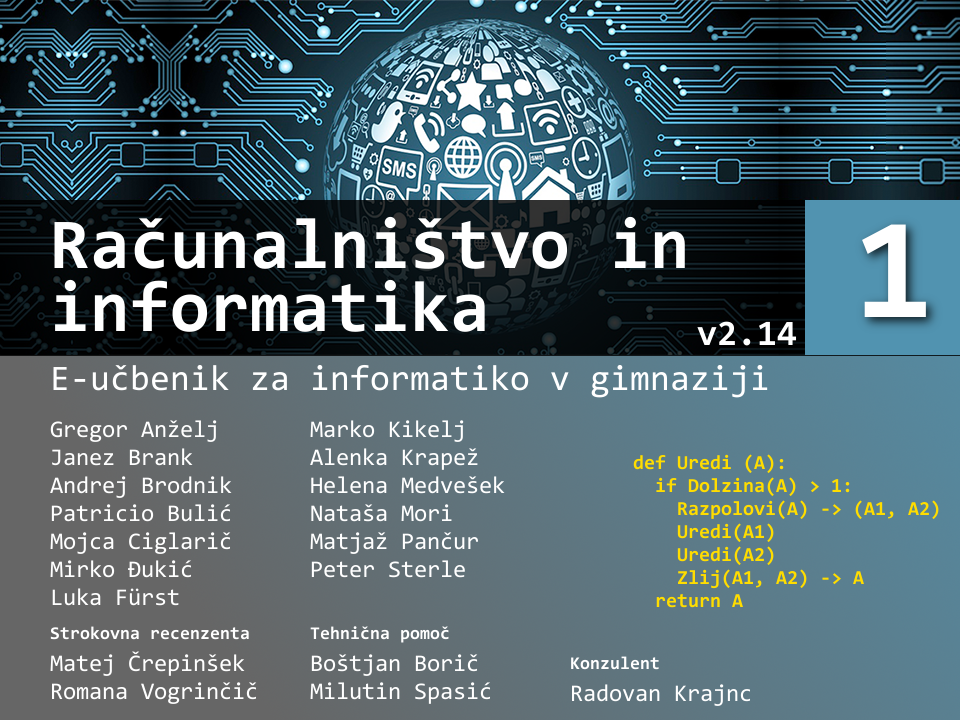
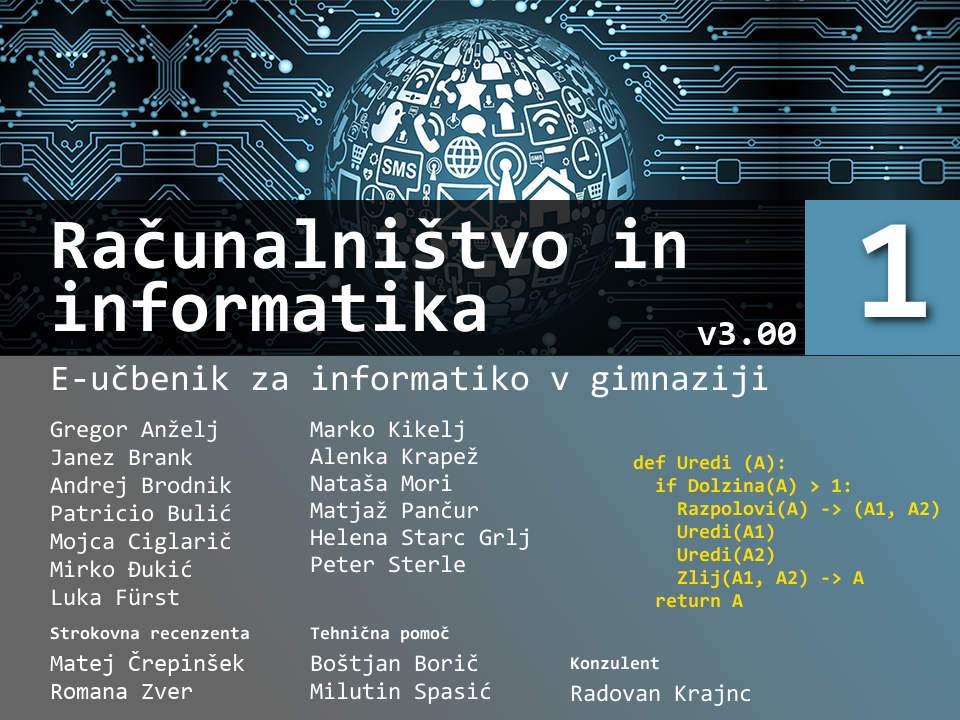
Interaktivni e-ucbenik v3.00

Changed region(s): [[0.3125, 0.6111, 0.5625, 0.825], [0.75, 0.4278, 0.8438, 0.4889], [0.125, 0.9472, 0.2812, 0.9778]]

diff --git a/book/cookies.html b/book/cookies.html
@@ -173,7 +173,7 @@
 						<h1>Piškotki</h1>
 
 						<h2>Kaj so piškotki?</h2>
-						<p align="justify">Piškotki so majhne tekstovne datoteke, ki se zapišejo na tvoj računalnik, ko obiščeš spletno stran.</p>
+						<p align="justify">Piškotki so majhne besedilne datoteke, ki se zapišejo v tvoj računalnik, ko obiščeš spletno stran.</p>
 						<p align="justify">Piškotki služijo za zagotavljanje sledljivosti in ko se naslednjič z istim brskalnikom vrneš na spletno stran, brskalnik preveri, ali je piškotek nastavljen, uporabi podatke iz piškotka in jih posreduje spletni strani.</p>
 						<p align="justify">Piškotki nam omogočajo, da prepoznamo ali si nas že predhodno obiskal(-a), in v nekaterih primerih temu lahko prilagodimo prikazano vsebino. Piškotki nam <b>ne omogočajo</b> shranjevnja tvojih osebnih podatkov.</p>
 

diff --git a/book/1202/index17.html b/book/1202/index17.html
@@ -264,11 +264,11 @@ n = int(input('Število učencev v razredu? '))
 n2 = n // 2
 
 # Izračunamo število učencev s številkami,
-# deljivimi z 3.
+# deljivimi s 3.
 n3 = n // 3
 
 # Izračunamo število osmoljencev s številkami,
-# deljivimi z 2 in 3, torej s 6.
+# deljivimi z 2 in s 3, torej s 6.
 n6 = n // 6
 
 # Število osmoljencev je kar enako številu
@@ -277,8 +277,8 @@ steviloOsmoljencev = n6
 
 # Število srečnežev dobimo tako, da od števila
 # vseh učencev odštejemo tiste, katerih
-# številke so deljive z 2 in 3. Vendar pa smo
-# pri tem dvakrat odšteli tiste, katerih
+# številke so deljive z 2 in s 3. Vendar pa
+# smo pri tem dvakrat odšteli tiste, katerih
 # številke so deljive s 6, zato jih moramo
 # enkrat prišteti.
 steviloSrecnezev = n - n2 - n3 + n6
